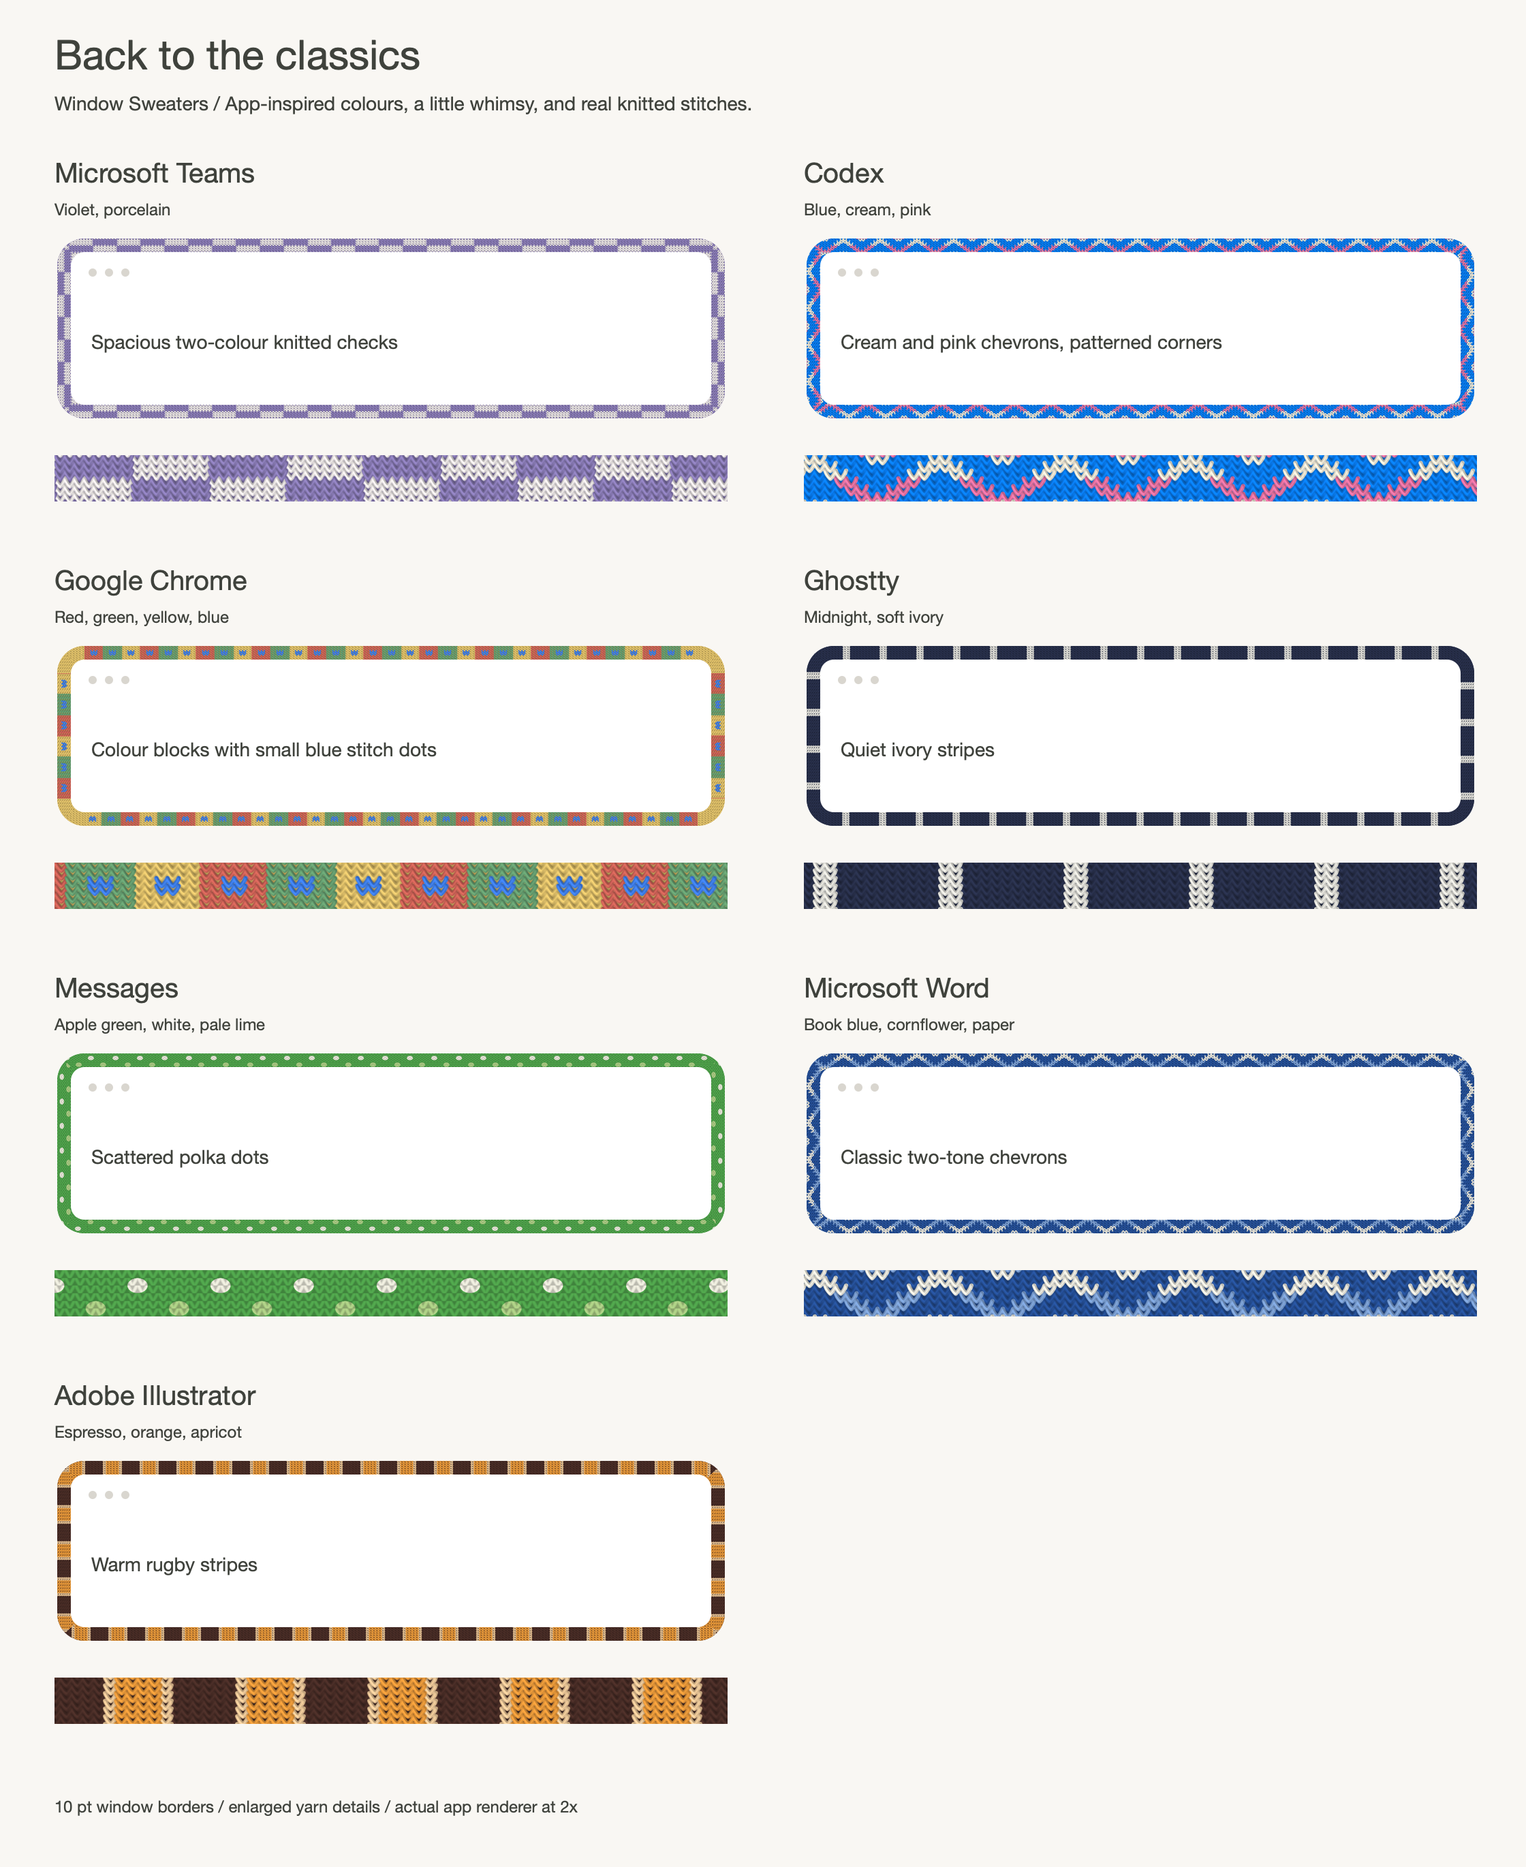
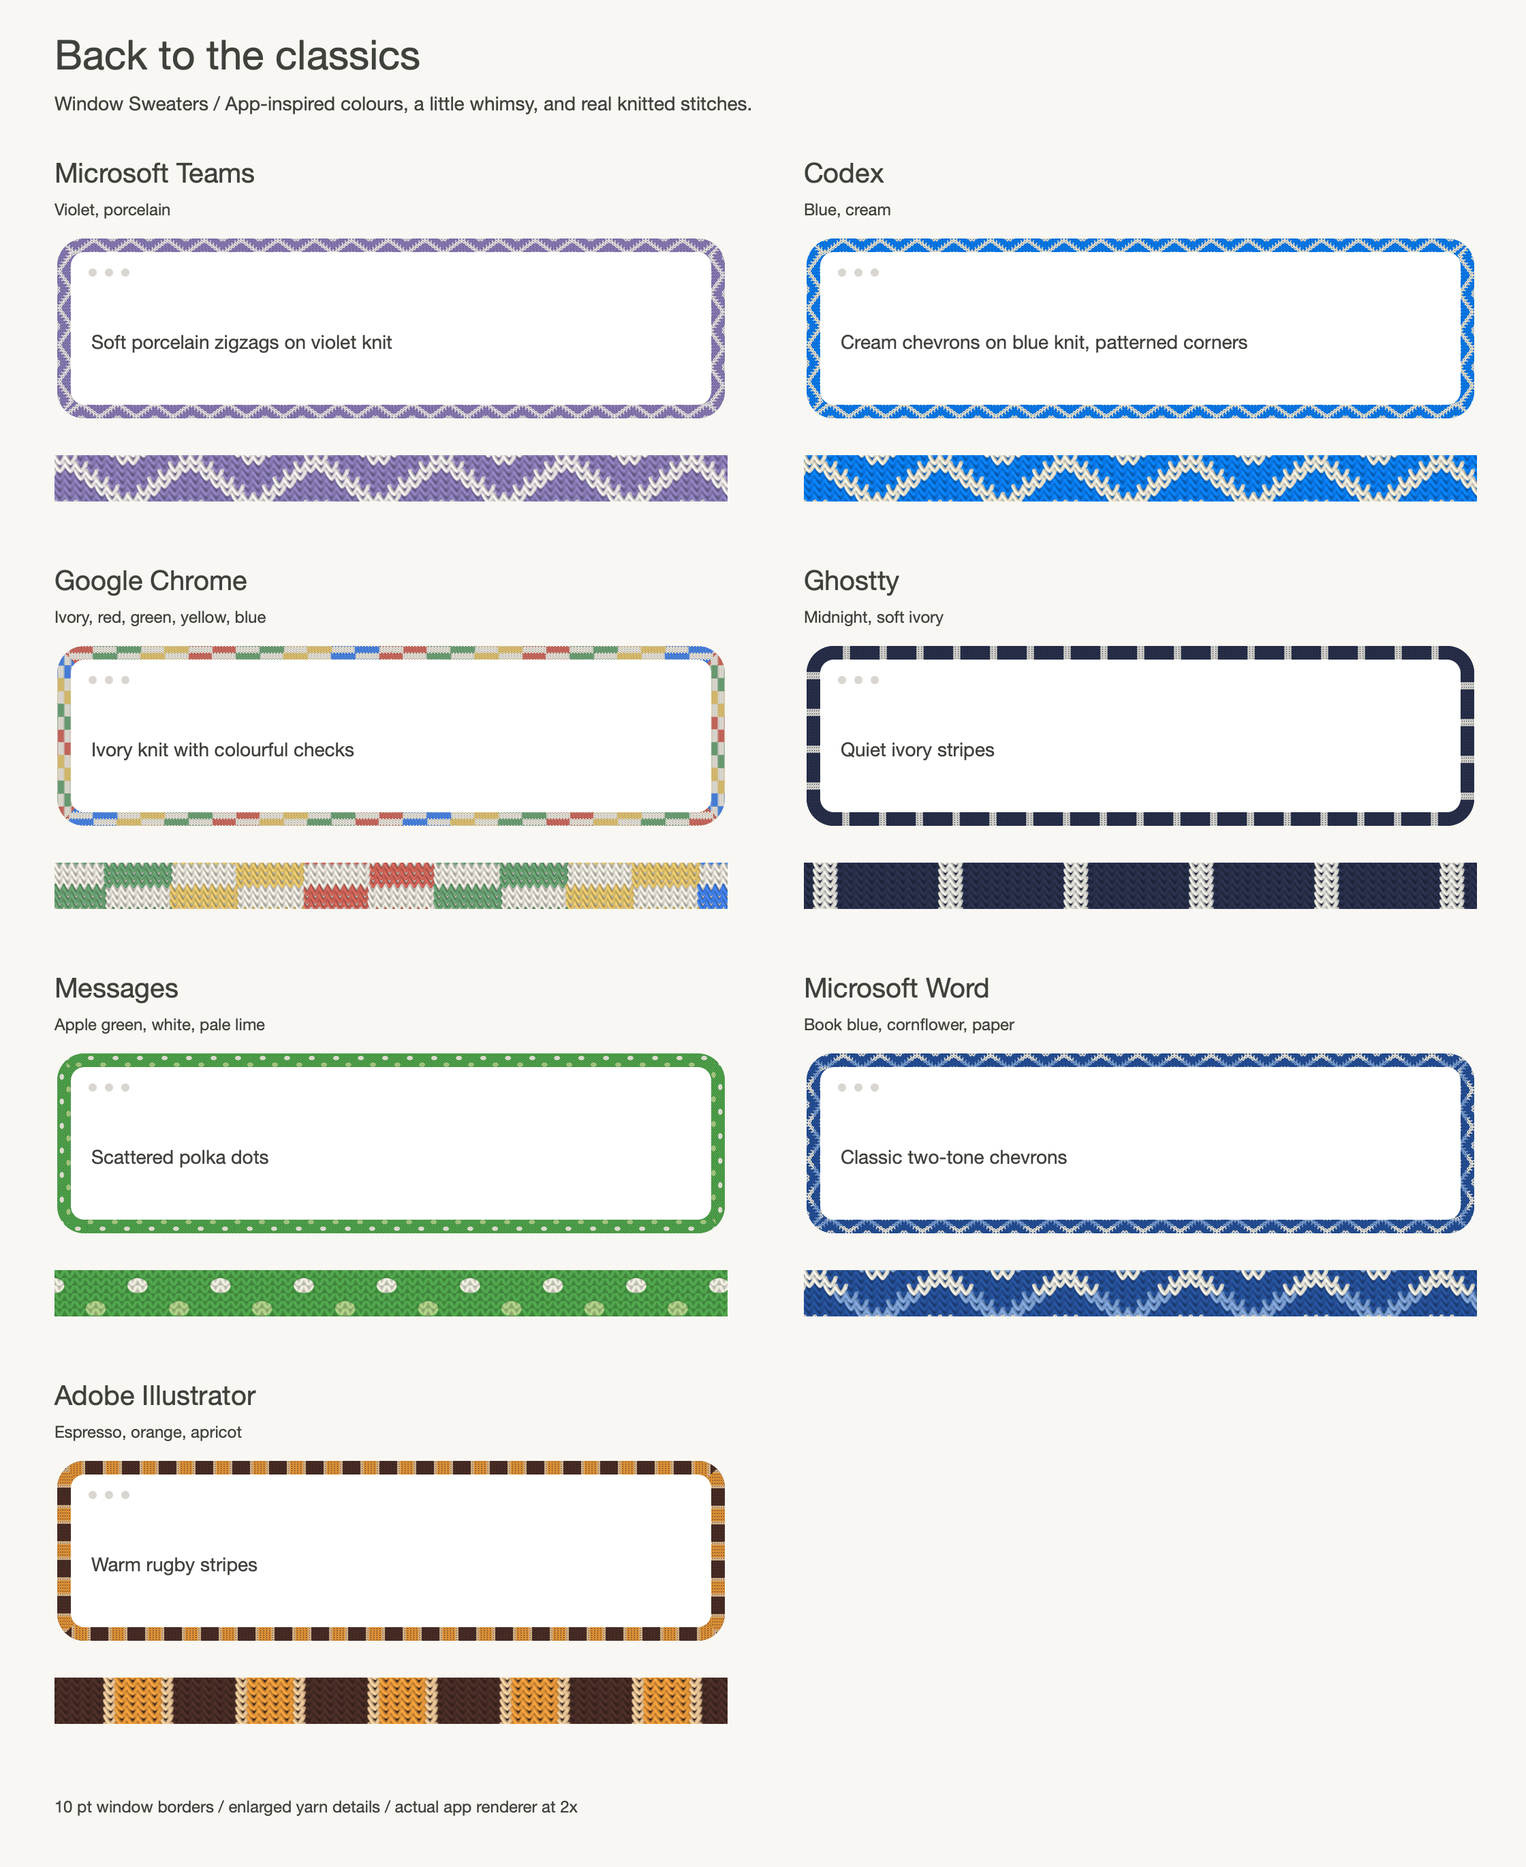
Build universal binaries for release
Release builds now cover arm64 and x86_64 so Intel Macs can run the
download. Development and test targets stay native for build speed.

diff --git a/src/chart.c b/src/chart.c
@@ -50,8 +50,8 @@ static const struct collection_chart k_collection[] = {
       "aaa.b..b.aaa", "aaa.b..b.aaa", "aaa.b..b.aaa" },
     { 0xffeeece4u, 0xff868a88u } },
   { "atelier-teams", {
-      "....aaaaaaaa....", "....aaaaaaaa....", "....aaaaaaaa....",
-      "aaaa........aaaa", "aaaa........aaaa", "aaaa........aaaa" },
+      "a....aa....a", "aa........aa", ".aa......aa.",
+      "..aa....aa..", "...aa..aa...", "....aaaa...." },
     { 0xfff4efeeu } },
   { "atelier-claude", {
       "............", "..a.....a...", ".aaa...aaa..",
@@ -66,8 +66,8 @@ static const struct collection_chart k_collection[] = {
       "aaa...aaa...", "aaa...aaa...", "aaa...aaa..." },
     { 0xffe5d586u } },
   { "atelier-notion", {
-      "aaaaaaaaaaaa", "aaaaaaaaaaaa", "............",
-      "............", "............", "............" },
+      "...aaa...aaa", "...aaa...aaa", "...aaa...aaa",
+      "aaa...aaa...", "aaa...aaa...", "aaa...aaa..." },
     { 0xff494947u } },
   { "atelier-whatsapp", {
       "aaaa....b...", "aaaa....b...", "aaaa....b...",
@@ -78,9 +78,9 @@ static const struct collection_chart k_collection[] = {
       "....ddee....", "....ddee....", "....ddee...." },
     { 0xffeaaf96u, 0xffdcd092u, 0xff8dbccfu, 0xffafc5a1u, 0xffded3e9u } },
   { "atelier-chrome", {
-      "aaaaaabbbbbb......", "aaaaaabbbbbb......", "aaccaabbccbb..cc..",
-      "aaccaabbccbb..cc..", "aaaaaabbbbbb......", "aaaaaabbbbbb......" },
-    { 0xffd8675bu, 0xff6ba776u, 0xff4285f4u } },
+      "....aaaaaaaa........bbbbbbbb........dddddddd........aaaaaaaa........bbbbbbbb........dddddddd........cccccccc....", "....aaaaaaaa........bbbbbbbb........dddddddd........aaaaaaaa........bbbbbbbb........dddddddd........cccccccc....", "....aaaaaaaa........bbbbbbbb........dddddddd........aaaaaaaa........bbbbbbbb........dddddddd........cccccccc....",
+      "aaaa........bbbbbbbb........dddddddd........aaaaaaaa........bbbbbbbb........dddddddd........cccccccc........aaaa", "aaaa........bbbbbbbb........dddddddd........aaaaaaaa........bbbbbbbb........dddddddd........cccccccc........aaaa", "aaaa........bbbbbbbb........dddddddd........aaaaaaaa........bbbbbbbb........dddddddd........cccccccc........aaaa" },
+    { 0xffd8675bu, 0xff6ba776u, 0xff4285f4u, 0xffedcc70u } },
   { "atelier-paper", {
       "..aaaa..", ".a...a..", ".a.b.a..",
       ".aaaaa..", ".aaa....", "........" },
@@ -171,8 +171,8 @@ static const struct collection_chart k_collection[] = {
     { 0xff8ba66au } },
   { "atelier-chatgpt", {
       "a....aa....a", "aa........aa", ".aa......aa.",
-      "..bb....bb..", "...bb..bb...", "....bbbb...." },
-    { 0xfff6f0deu, 0xfff078aau } },
+      "..aa....aa..", "...aa..aa...", "....aaaa...." },
+    { 0xfff6f0deu } },
   { "atelier-ghostty", {
       "aa..........", "aa..........", "aa..........",
       "aa..........", "aa..........", "aa.........." },
@@ -227,7 +227,6 @@ static const struct collection_chart k_collection[] = {
 // Solid patches finish patterns that otherwise collide at the mitre.
 // A zero colour follows the app's own base yarn, including personal palettes.
 static const struct { const char* chart; uint32_t color; } k_corner_styles[] = {
-  { "atelier-chrome", 0xffedcc70u }, // requested yellow finish
   { "atelier-whatsapp", 0 },       // keep its stripe joins quiet
 };
 
@@ -260,8 +259,7 @@ static void load_collection(void) {
         break;
       }
     if (strcmp(spec->name, "atelier-notes") == 0
-        || strcmp(spec->name, "atelier-calendar") == 0
-        || strcmp(spec->name, "atelier-notion") == 0) {
+        || strcmp(spec->name, "atelier-calendar") == 0) {
       // Move the outer cuff out of the rectangular chart: its coloured rows
       // otherwise repeat into the inner corner and make angular fragments.
       chart->cuff_color = spec->yarn[0];
@@ -274,7 +272,7 @@ static void load_collection(void) {
                          || strcmp(spec->name, "atelier-grok") == 0
                          || strcmp(spec->name, "atelier-granola") == 0
                          || strcmp(spec->name, "atelier-illustrator") == 0
-                         || strcmp(spec->name, "atelier-teams") == 0;
+                         || strcmp(spec->name, "atelier-chrome") == 0;
     chart->sculpted_yarn = !chart->round_dots;
     chart->defined_yarn = true;
   }

diff --git a/tests/catalogue.h b/tests/catalogue.h
@@ -3,16 +3,16 @@
 struct catalogue_entry { const char *name, *match, *chart, *palette, *pattern; };
 static const struct catalogue_entry catalogue[] = {
   { "Finder", "Finder", "atelier-finder", "Finder blue, ice blue, navy", "Blue checks with aligned knitted corners" },
-  { "Microsoft Teams", "Microsoft Teams", "atelier-teams", "Violet, porcelain", "Spacious two-colour knitted checks" },
+  { "Microsoft Teams", "Microsoft Teams", "atelier-teams", "Violet, porcelain", "Soft porcelain zigzags on violet knit" },
   { "Claude", "Claude", "atelier-claude", "Apricot, vanilla", "Cream stars on apricot wool, no inner trim" },
-  { "Codex", "Codex", "atelier-chatgpt", "Blue, cream, pink", "Cream and pink chevrons, patterned corners" },
+  { "Codex", "Codex", "atelier-chatgpt", "Blue, cream", "Cream chevrons on blue knit, patterned corners" },
   { "Spotify", "Spotify", "atelier-spotify", "Leaf green, butter yellow", "Raised knitted checks, patterned corners" },
-  { "Notion", "Notion", "atelier-notion", "Paper white, charcoal", "Quiet ivory knit with a curved charcoal cuff" },
+  { "Notion", "Notion", "atelier-notion", "Paper white, charcoal", "Raised ivory and charcoal knitted checks" },
   { "WhatsApp", "WhatsApp", "atelier-whatsapp", "Meadow, pistachio, pink", "Broad stripes with pink accents, green corners" },
   { "Figma", "Figma", "atelier-figma", "Mauve and pastel accents", "Playful colour blocks" },
-  { "Google Chrome", "Google Chrome", "atelier-chrome", "Red, green, yellow, blue", "Colour blocks with small blue stitch dots" },
+  { "Google Chrome", "Google Chrome", "atelier-chrome", "Ivory, red, green, yellow, blue", "Ivory knit with colourful checks" },
   { "Paper", "Paper", "atelier-paper", "Paper blue, white, denim", "Layered sheet motifs" },
-  { "ChatGPT", "ChatGPT", "atelier-chatgpt", "Blue, cream, pink", "Cream and pink chevrons, patterned corners" },
+  { "ChatGPT", "ChatGPT", "atelier-chatgpt", "Blue, cream", "Cream chevrons on blue knit, patterned corners" },
   { "Grok Bot", "Grok Bot", "atelier-grok", "Charcoal, oatmeal, silver", "Framed stripes, matching knitted corners" },
   { "Discord", "Discord", "checker", "Blurple, warm white", "Mini checkerboard" },
   { "Granola", "Granola", "atelier-granola", "Deep grey, leaf green", "Grey and green stripes, patterned corners" },

diff --git a/tests/collection_test.c b/tests/collection_test.c
@@ -131,7 +131,7 @@ static void test_patterns(void) {
   assert(knit_pattern_for_app("Finder") == figma);
   assert(knit_pattern_for_app("Google Chrome") == figma);
   assert(knit_pattern_for_app("Unknown") == figma);
-  assert(knit_app_rule("Google Chrome")->color == 0xffedcc70); // app yarn stays
+  assert(knit_app_rule("Google Chrome")->color == 0xfff4f0e6); // app yarn stays
   assert(!knit_pattern_select("missing-chart"));
   assert(!knit_pattern_select(NULL));
   assert(!g_knit_pattern_by_app && g_chart_active == figma);
@@ -208,7 +208,7 @@ static void test_charts(const char* dir) {
   assert(g_charts[knit_chart_index("atelier-whatsapp")].solid_corners);
   assert(!g_charts[knit_chart_index("atelier-claude")].solid_corners);
   assert(g_charts[knit_chart_index("atelier-messages")].round_dots);
-  assert(g_charts[knit_chart_index("atelier-chrome")].corner_color == 0xffedcc70);
+  assert(g_charts[knit_chart_index("atelier-chrome")].corner_color == 0);
   assert(g_charts[knit_chart_index("atelier-spotify")].sculpted_yarn);
   write_png(dir, "atelier-spotify");
   assert(knit_charts_load(dir) == COLLECTION_COUNT);
@@ -216,8 +216,8 @@ static void test_charts(const char* dir) {
   remove_png(dir, "atelier-spotify");
   write_png(dir, "atelier-chrome");
   assert(knit_charts_load(dir) == COLLECTION_COUNT);
-  assert(g_charts[knit_chart_index("atelier-chrome")].solid_corners);
-  assert(g_charts[knit_chart_index("atelier-chrome")].corner_color == 0xffedcc70);
+  assert(!g_charts[knit_chart_index("atelier-chrome")].solid_corners);
+  assert(g_charts[knit_chart_index("atelier-chrome")].corner_color == 0);
   remove_png(dir, "atelier-chrome");
   write_png(dir, "atelier-whatsapp");
   assert(knit_charts_load(dir) == COLLECTION_COUNT);

diff --git a/tests/render.c b/tests/render.c
@@ -350,7 +350,7 @@ static void chrome_preview(const char* path) {
   CGContextSetRGBFillColor(c,.949,.937,.906,1);
   CGContextFillRect(c,CGRectMake(0,0,W,H));
   text_at(c,40,55,"A sweater for Chrome",29);
-  text_at(c,40,84,"Butter and sage stripes, little red accents, and a little blue.",14);
+  text_at(c,40,84,"Ivory yarn with red, green, yellow and occasional blue checks.",14);
   const struct app_rule* r = knit_app_rule("Google Chrome"); assert(r);
   CGRect win=CGRectMake(56,132,560,220);
   knit_draw(c,win,10,14,r->color,knit_chart_index(r->chart),0,1);
@@ -458,15 +458,6 @@ static void verify_corners(void) {
                            pixel(actual, points[0][0]*scale, points[0][1]*scale)));
           uint32_t corner = pixel(actual, 25*scale, 31*scale);
           assert((corner >> 24) == 255);
-        }
-        if (strcmp(catalogue[style].chart, "atelier-chrome") == 0 && n == 1) {
-          uint32_t yellow = pixel(actual, 25*scale, 31*scale);
-          assert((yellow >> 24) == 255);
-          assert(((yellow >> 16) & 255) > ((yellow >> 8) & 255));
-          assert(((yellow >> 8) & 255) > (yellow & 255));
-          assert(same_yarn(pixel(actual, 215*scale, 31*scale), yellow));
-          assert(same_yarn(pixel(actual, 25*scale, 139*scale), yellow));
-          assert(same_yarn(pixel(actual, 215*scale, 139*scale), yellow));
         }
         CGContextRelease(actual); CGContextRelease(mask);
       }

diff --git a/src/apps.c b/src/apps.c
@@ -24,10 +24,10 @@ static const struct app_rule k_collection[] = {
   { "Notion",          0xfff5f5f2u, "atelier-notion" },
   { "WhatsApp",        0xff6ea77bu, "atelier-whatsapp" },
   { "Figma",           0xffad7197u, "atelier-figma" },
-  { "Google Chrome",   0xffedcc70u, "atelier-chrome" },
-  { "Chrome",          0xffedcc70u, "atelier-chrome" },
+  { "Google Chrome",   0xfff4f0e6u, "atelier-chrome" },
+  { "Chrome",          0xfff4f0e6u, "atelier-chrome" },
   { "Paper",           0xff83ade8u, "atelier-paper" },
-  { "Chromium",        0xffedcc70u, "atelier-chrome" },
+  { "Chromium",        0xfff4f0e6u, "atelier-chrome" },
   { "Safari", 0xff268ed8u, "atelier-safari" },
   { "Firefox", 0xff643a9au, "atelier-firefox" },
   { "Slack", 0xff542a52u, "atelier-slack" },

diff --git a/docs/COLLECTION.md b/docs/COLLECTION.md
@@ -2,7 +2,7 @@
 
 36 app sweaters, individually inspected on 14 September 2026. Each plate shows a 10-point border, a 4x enlargement using that same stitch geometry, and four enlarged corners. Detail views reuse the renderer and cached yarn; they are not photographs or larger-gauge swatches.
 
-This is a visual design review of the actual renderer, not a claim of perfect live behaviour in every app. The plates use a 10-point reference width; the app defaults to 12 points. Two sweaters use textured, equal corner patches: Chrome and WhatsApp. Notes, Calendar and Notion have continuous curved cuffs instead. The rest have patterned corners.
+This is a visual design review of the actual renderer, not a claim of perfect live behaviour in every app. The plates use a 10-point reference width; the app defaults to 12 points. WhatsApp uses textured, equal corner patches. Notes and Calendar have continuous curved cuffs instead. The rest have patterned corners.
 
 Review scope: all 36 individual plates at one reference window size. Automated coverage checks also exercise 1x/2x and varied radii. This is not visual certification of every window size or live app. Mitred seams remain visible on some complex motifs; Messages uses a flatter dot-preserving material.
 
@@ -13,16 +13,16 @@ Design rule: judge the 10-point border first. Use one clear pattern rhythm, app-
 | Page | App | Treatment |
 | --- | --- | --- |
 | 01 | [Finder](#01-finder) | Blue checks with aligned knitted corners |
-| 02 | [Microsoft Teams](#02-microsoft-teams) | Spacious two-colour knitted checks |
+| 02 | [Microsoft Teams](#02-microsoft-teams) | Soft porcelain zigzags on violet knit |
 | 03 | [Claude](#03-claude) | Cream stars on apricot wool, no inner trim |
-| 04 | [Codex](#04-codex) | Cream and pink chevrons, patterned corners |
+| 04 | [Codex](#04-codex) | Cream chevrons on blue knit, patterned corners |
 | 05 | [Spotify](#05-spotify) | Raised knitted checks, patterned corners |
-| 06 | [Notion](#06-notion) | Quiet ivory knit with a curved charcoal cuff |
+| 06 | [Notion](#06-notion) | Raised ivory and charcoal knitted checks |
 | 07 | [WhatsApp](#07-whatsapp) | Broad stripes with pink accents, green corners |
 | 08 | [Figma](#08-figma) | Playful colour blocks |
-| 09 | [Google Chrome](#09-google-chrome) | Colour blocks with small blue stitch dots |
+| 09 | [Google Chrome](#09-google-chrome) | Ivory knit with colourful checks |
 | 10 | [Paper](#10-paper) | Layered sheet motifs |
-| 11 | [ChatGPT](#11-chatgpt) | Cream and pink chevrons, patterned corners |
+| 11 | [ChatGPT](#11-chatgpt) | Cream chevrons on blue knit, patterned corners |
 | 12 | [Grok Bot](#12-grok-bot) | Framed stripes, matching knitted corners |
 | 13 | [Discord](#13-discord) | Mini checkerboard |
 | 14 | [Granola](#14-granola) | Grey and green stripes, patterned corners |
@@ -61,7 +61,7 @@ Keep: clear blue hierarchy and readable checks. Patterned corners are balanced; 
 
 **Palette:** Violet, porcelain.
 
-Refined: larger two-colour violet and porcelain checks replace the small three-tone gingham. Fitted repeats keep the corners patterned.
+The menu’s Zigzag repeat in violet and porcelain, with visible yarn and patterned corners.
 
 ![Microsoft Teams: window border, yarn detail and all four corners](collection/app-02.png)
 
@@ -75,9 +75,9 @@ Simplified: removed the pale rose inner trim that formed an angular corner line.
 
 ## 04 Codex
 
-**Palette:** Blue, cream, pink.
+**Palette:** Blue, cream.
 
-Keep: lively blue, cream and pink chevrons. No patches. Enlarged corners reveal cut motifs, so these are not seamless knitted turns.
+Blue knit with cream chevrons; the pink accent is removed. No patches. Enlarged corners reveal cut motifs, so these are not seamless knitted turns.
 
 ![Codex: window border, yarn detail and all four corners](collection/app-04.png)
 
@@ -93,7 +93,7 @@ Keep as the tactile reference: clear green-and-butter checks and rounded yarn. P
 
 **Palette:** Paper white, charcoal.
 
-Quiet everyday treatment: ivory knitted wool with a continuous charcoal cuff. Removed the outlined-square motifs and solid corner patches.
+Spotify’s raised knitted checks in paper white and charcoal, with the same stitch scale and patterned corners. No cuff or solid corner patches.
 
 ![Notion: window border, yarn detail and all four corners](collection/app-06.png)
 
@@ -115,9 +115,9 @@ Keep: mauve unifies the pastel blocks. Colour changes at the corners belong to t
 
 ## 09 Google Chrome
 
-**Palette:** Red, green, yellow, blue.
+**Palette:** Ivory, red, green, yellow, blue.
 
-Keep: red, green and yellow dominate, blue stays small. The blue marks read as knitted accents, not perfect circles. Yellow corners retained.
+Spacious checks on ivory yarn, with red, green and yellow checks and occasional blue. Repeats fit the window edges. The pattern continues around all four corners without solid patches.
 
 ![Google Chrome: window border, yarn detail and all four corners](collection/app-09.png)
 
@@ -131,7 +131,7 @@ Keep: readable white sheet motifs on soft blue yarn. No patches. Motifs are clip
 
 ## 11 ChatGPT
 
-**Palette:** Blue, cream, pink.
+**Palette:** Blue, cream.
 
 Keep: matches Codex, with visible yarn and no patches. Complex chevrons still meet at mitred seams rather than bending continuously.
 

diff --git a/README.md b/README.md
@@ -29,8 +29,10 @@ Privacy & Security step is the supported route. From Terminal,
 `xattr -dr com.apple.quarantine "/Applications/Window Sweaters.app"` has the same
 effect before the first launch.
 
-The app declares macOS 13 as its minimum; hands-on development has been on macOS 26.
-Compatibility with every supported macOS version is not verified.
+The download is a universal binary covering Apple Silicon and Intel Macs. The app
+declares macOS 13 as its minimum; hands-on development has been on Apple Silicon and
+macOS 26. The Intel slice compiles and links but has not been run on Intel hardware,
+and compatibility with every supported macOS version is not verified.
 
 ## Using it
 
